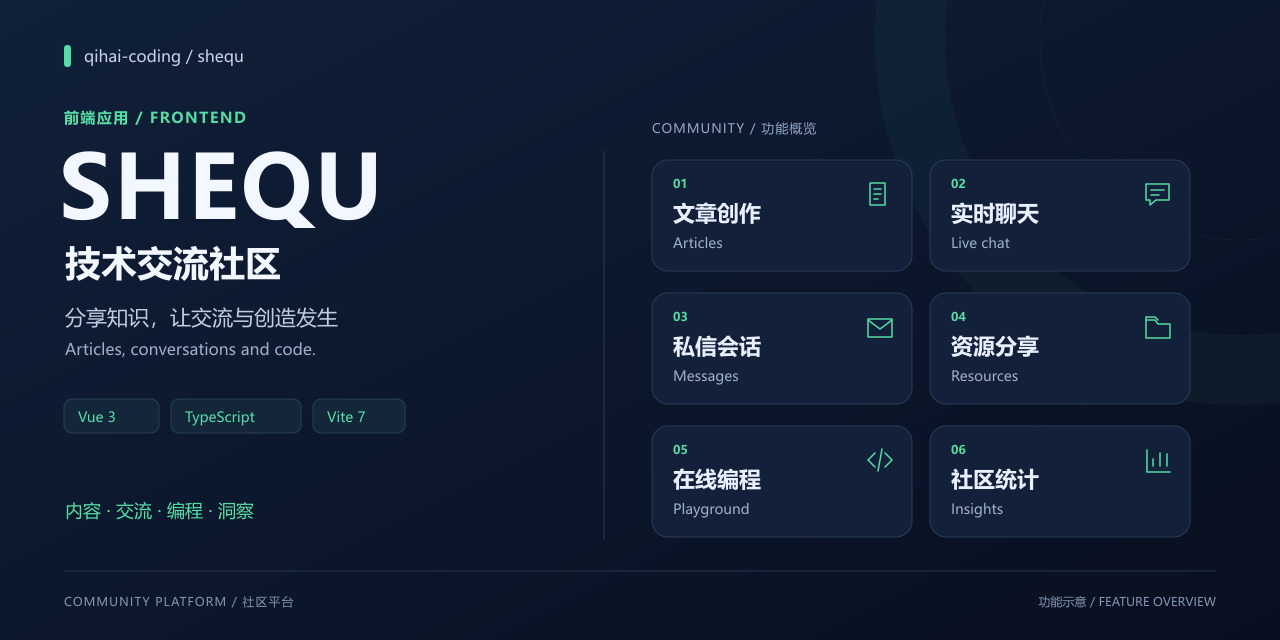
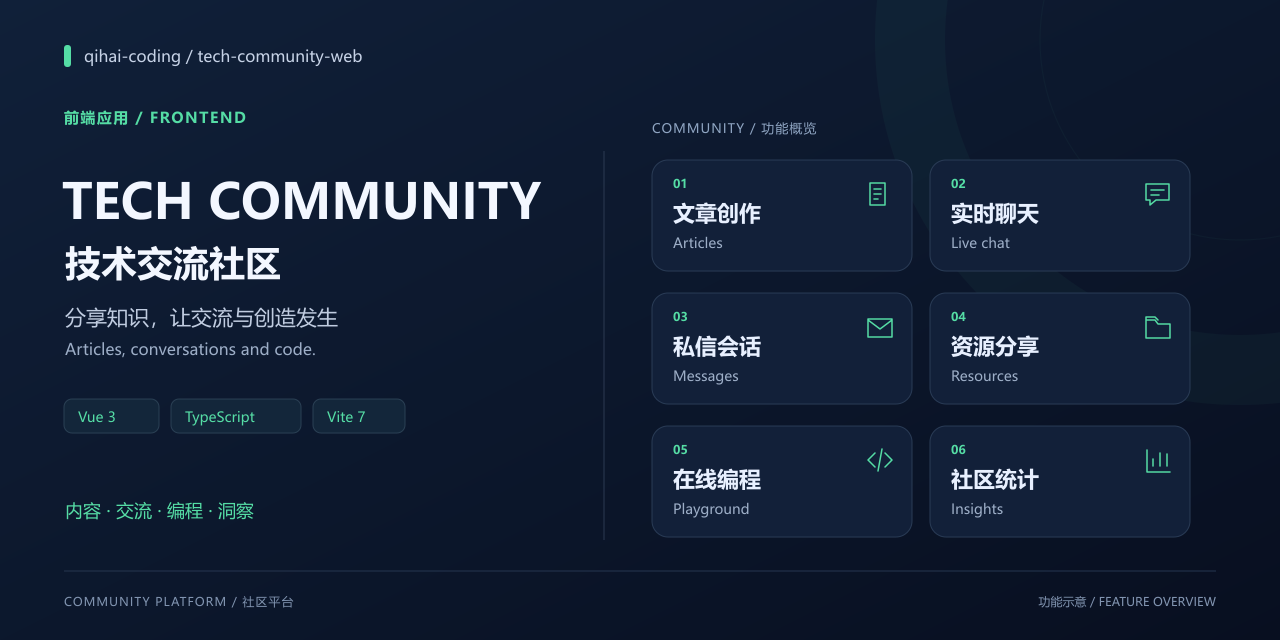
同步社区项目的专业仓库命名、展示标题与关联链接
按项目展示定位，配套仓库已分别由 shequ、shequ_gin 更名为 tech-community-web、tech-community-api。原有说明与封面仍引用旧名称，需要同步以免开发者复制旧地址或混淆前后端职责。

- 更新中英文说明中的仓库互链、克隆命令、进入目录命令、问题反馈地址及架构图标识。
- 统一主页标题与封面品牌为 Tech Community（技术交流社区），同步封面中的仓库路径。
- 重新导出 1280×640 位图并保留可编辑矢量源图。

本次仅调整展示文档与图片；业务功能、应用内部包名、依赖、配置和默认分支均未改动。
已验证两种语言的启动命令一致、链接与目录锚点完整、GitHub 文档渲染成功，并检查封面尺寸、文字显示及暂存区空白。

Changed region(s): [[0.0312, 0.2188, 0.4375, 0.375], [0.1562, 0.0625, 0.2812, 0.0938]]

diff --git a/README.en.md b/README.en.md
@@ -1,10 +1,10 @@
-[简体中文（Chinese）](README.md) · English · [Backend repository](https://github.com/qihai-coding/shequ_gin)
+[简体中文（Chinese）](README.md) · English · [Backend repository](https://github.com/qihai-coding/tech-community-api)
 
-# Shequ · Technical Community
+# Tech Community · Web Application
 
-![Shequ frontend feature overview: articles, live chat, private messages, resources, online coding and community insights](docs/assets/cover.png)
+![Tech Community frontend feature overview: articles, live chat, private messages, resources, online coding and community insights](docs/assets/cover.png)
 
-A community frontend for technical writing, conversations, resource sharing and online coding. It works with the [shequ_gin backend](https://github.com/qihai-coding/shequ_gin) and provides separate page access for members and administrators.
+A community frontend for technical writing, conversations, resource sharing and online coding. It works with the [tech-community-api backend](https://github.com/qihai-coding/tech-community-api) and provides separate page access for members and administrators.
 
 [Features](#features) · [Architecture](#architecture) · [Quick start](#quick-start) · [Development](#development) · [Runtime notes](#runtime-notes)
 
@@ -34,8 +34,8 @@ See [package.json](package.json) and [package-lock.json](package-lock.json) for 
 
 ```mermaid
 flowchart LR
-    Browser["Browser"] --> Frontend["shequ · Vue 3 frontend"]
-    Frontend -->|"HTTP / WebSocket"| Backend["shequ_gin · Go backend"]
+    Browser["Browser"] --> Frontend["tech-community-web · Vue 3 frontend"]
+    Frontend -->|"HTTP / WebSocket"| Backend["tech-community-api · Go backend"]
     Backend --> DB["MySQL · Database"]
     Backend --> Storage["MinIO · Object storage"]
     Backend --> Runner["Judge0 · Code execution"]
@@ -48,13 +48,13 @@ This repository implements the interface and interactions. The backend handles d
 ### 1. Prerequisites
 
 - **Node.js 22.12 or later** with its bundled npm is recommended. The locked Vite 7 dependency requires `^20.19.0 || >=22.12.0`; the project's declared Node.js 18 minimum does not satisfy that dependency.
-- Prepare the backend using its [setup instructions](https://github.com/qihai-coding/shequ_gin/blob/master/README.en.md#quick-start). Its default address is `http://localhost:3001`.
+- Prepare the backend using its [setup instructions](https://github.com/qihai-coding/tech-community-api/blob/master/README.en.md#quick-start). Its default address is `http://localhost:3001`.
 
 ### 2. Install and configure
 
 ```sh
-git clone https://github.com/qihai-coding/shequ.git
-cd shequ
+git clone https://github.com/qihai-coding/tech-community-web.git
+cd tech-community-web
 npm ci
 ```
 
@@ -127,6 +127,6 @@ docs/assets/     Repository cover and editable vector source
 
 ## Feedback and license
 
-Report problems or suggest improvements through [Issues](https://github.com/qihai-coding/shequ/issues), including reproduction steps, your environment and sanitized logs.
+Report problems or suggest improvements through [Issues](https://github.com/qihai-coding/tech-community-web/issues), including reproduction steps, your environment and sanitized logs.
 
 Licensed under the [MIT License](LICENSE). Copyright `2026 qihai-coding`. Third-party dependencies retain their own licenses.

diff --git a/README.md b/README.md
@@ -1,10 +1,10 @@
-简体中文 · [English（英文）](README.en.md) · [后端仓库](https://github.com/qihai-coding/shequ_gin)
+简体中文 · [English（英文）](README.en.md) · [后端仓库](https://github.com/qihai-coding/tech-community-api)
 
-# Shequ · 技术交流社区
+# Tech Community · 技术交流社区
 
-![Shequ 技术交流社区前端：文章、实时聊天、私信、资源分享、在线编程与社区统计的功能示意](docs/assets/cover.png)
+![Tech Community 技术交流社区前端：文章、实时聊天、私信、资源分享、在线编程与社区统计的功能示意](docs/assets/cover.png)
 
-面向技术交流的社区前端，将内容发布、即时交流、资源分享和在线编程整合在同一个应用中。配合 [shequ_gin 后端](https://github.com/qihai-coding/shequ_gin)运行，提供普通用户与管理员各自的页面入口。
+面向技术交流的社区前端，将内容发布、即时交流、资源分享和在线编程整合在同一个应用中。配合 [tech-community-api 后端](https://github.com/qihai-coding/tech-community-api)运行，提供普通用户与管理员各自的页面入口。
 
 [功能概览](#功能概览) · [系统架构](#系统架构) · [快速开始](#快速开始) · [开发与构建](#开发与构建) · [运行说明](#运行说明)
 
@@ -34,8 +34,8 @@
 
 ```mermaid
 flowchart LR
-    Browser["浏览器"] --> Frontend["shequ · Vue 3 前端"]
-    Frontend -->|"HTTP 请求 / WebSocket 实时通信"| Backend["shequ_gin · Go 后端"]
+    Browser["浏览器"] --> Frontend["tech-community-web · Vue 3 前端"]
+    Frontend -->|"HTTP 请求 / WebSocket 实时通信"| Backend["tech-community-api · Go 后端"]
     Backend --> DB["MySQL · 关系型数据库"]
     Backend --> Storage["MinIO · 对象存储"]
     Backend --> Runner["Judge0 · 代码执行服务"]
@@ -48,13 +48,13 @@ flowchart LR
 ### 1. 准备环境
 
 - 推荐 Node.js（脚本运行环境）**22.12 或更高版本**，以及随附的 npm（依赖管理工具）。锁文件中的 Vite 7 实际要求 `^20.19.0 || >=22.12.0`；项目声明的 Node.js 18 下限不足以满足该依赖。
-- 按[后端启动说明](https://github.com/qihai-coding/shequ_gin#快速开始)准备后端，默认地址为 `http://localhost:3001`。
+- 按[后端启动说明](https://github.com/qihai-coding/tech-community-api#快速开始)准备后端，默认地址为 `http://localhost:3001`。
 
 ### 2. 安装与配置
 
 ```sh
-git clone https://github.com/qihai-coding/shequ.git
-cd shequ
+git clone https://github.com/qihai-coding/tech-community-web.git
+cd tech-community-web
 npm ci
 ```
 
@@ -127,6 +127,6 @@ docs/assets/     仓库展示封面与可编辑矢量源图
 
 ## 反馈与许可
 
-问题与改进建议请提交至 [Issues（问题反馈）](https://github.com/qihai-coding/shequ/issues)，附上复现步骤、运行环境和已移除敏感信息的日志。
+问题与改进建议请提交至 [Issues（问题反馈）](https://github.com/qihai-coding/tech-community-web/issues)，附上复现步骤、运行环境和已移除敏感信息的日志。
 
 本项目采用 [MIT（宽松开源许可证）](LICENSE)，版权归属为 `2026 qihai-coding`。第三方依赖仍遵循各自许可证。
